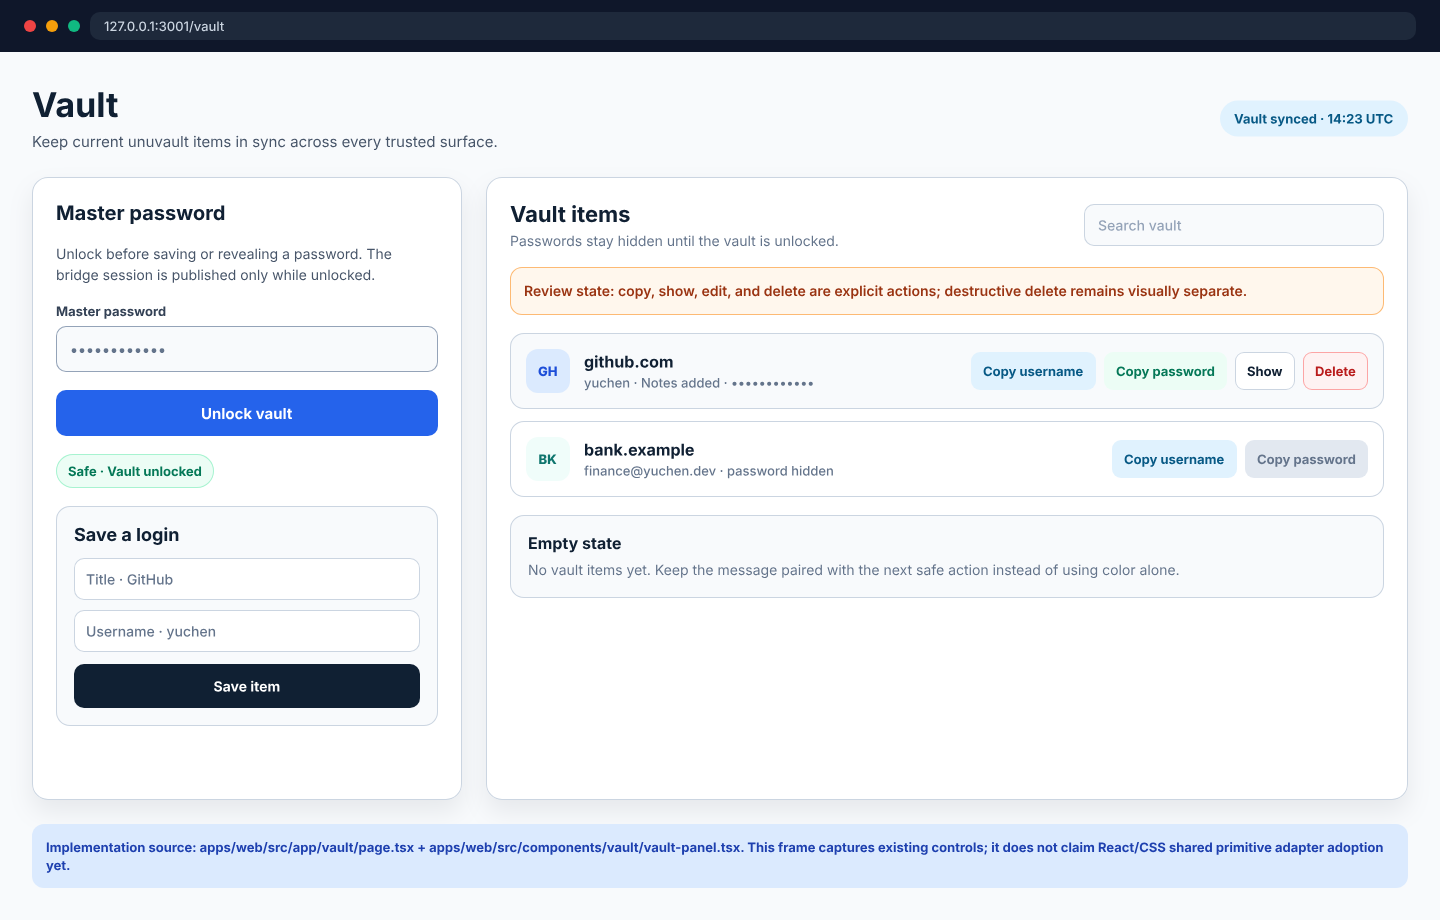
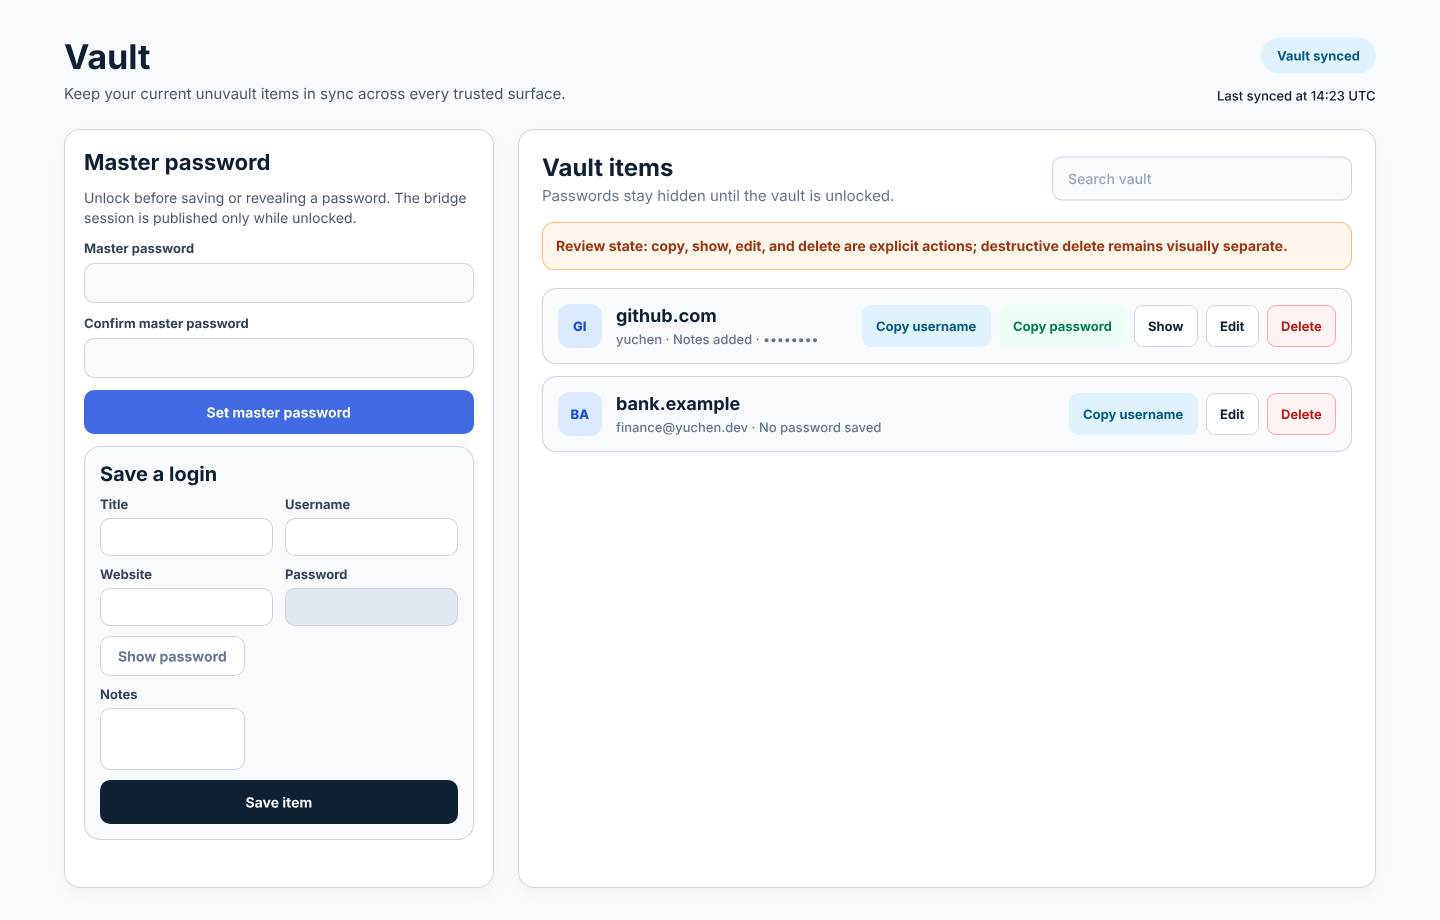
Promote vault Pencil current evidence

diff --git a/docs/design/react-css-adapter-evidence.md b/docs/design/react-css-adapter-evidence.md
@@ -9,8 +9,9 @@ backlog, but it does not claim broad shared primitive adoption by itself.
 - Adapter lane: React/CSS web adapter
 - Repo: `unuvault`
 - Surface: Web vault management
-- Status: browser visual proof recorded; Pencil current needs promotion/backwrite
-  before this lane can be called `adapter-mapped`
+- Status: browser visual proof recorded; Pencil current promoted on
+  2026-05-23; this lane still stays `blocked-needs-evidence` until
+  keyboard/focus-visible proof is recorded for the Web adapter
 - Pencil current:
   `/Users/yuchen/Design/unu/unuvault/unuvault.current.pen`
 - Pencil source frame: `current/unuvault/web-vault-management-v1`
@@ -85,14 +86,14 @@ Capture route used for this evidence:
 ## Remaining Gap
 
 This evidence does not yet move the shared React/CSS adapter to
-`adapter-mapped`. The browser capture now exists, but it shows the implemented
-surface is more complete than the current Pencil screen frame: the shipped Web
-form includes `Website`, `Password`, and `Notes` fields, while the current frame
-still shows the smaller save-login example. The source frame therefore needs a
-Pencil draft backwrite and user approval before promotion into current.
+`adapter-mapped`. The browser capture and current Pencil source now show the
+same shipped form inventory, including `Website`, `Password`, and `Notes`
+fields. The remaining shared-adapter proof gap is keyboard/focus-visible
+behavior and any broader activation evidence required before a React/CSS lane
+can become `adapter-mapped`.
 
 Current Pencil sync label for this lane:
-`draft backwrite pending approval`.
+`current matches implementation`.
 
 Intentionally local values that must not be promoted into the shared library:
 